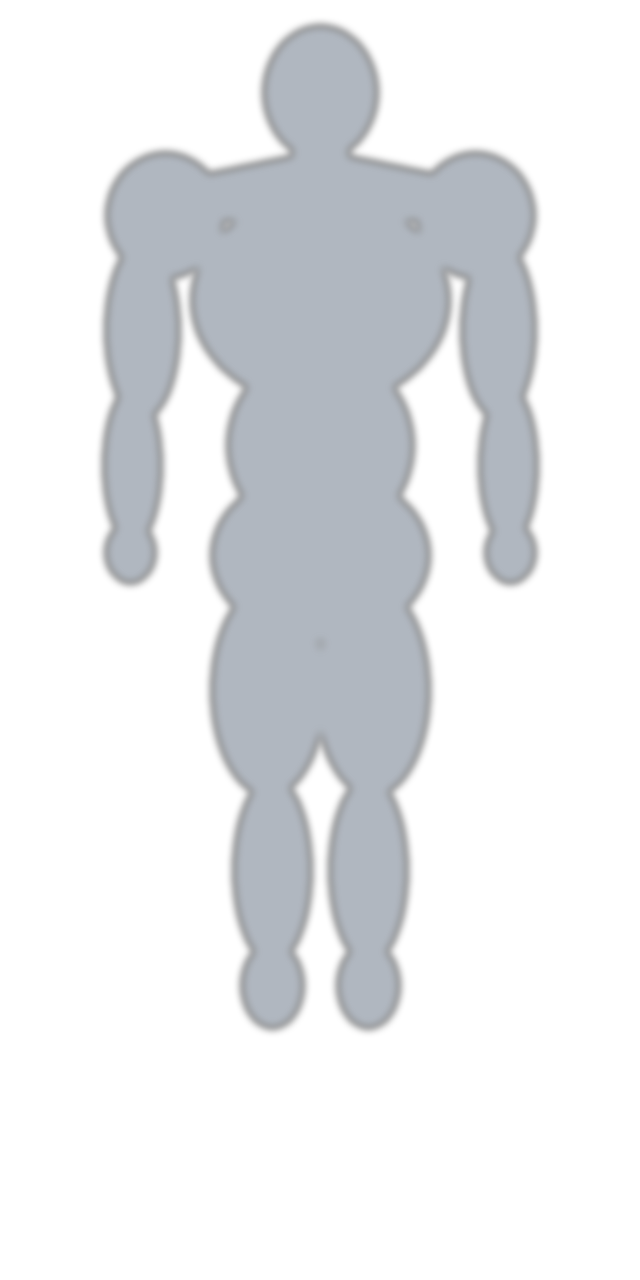
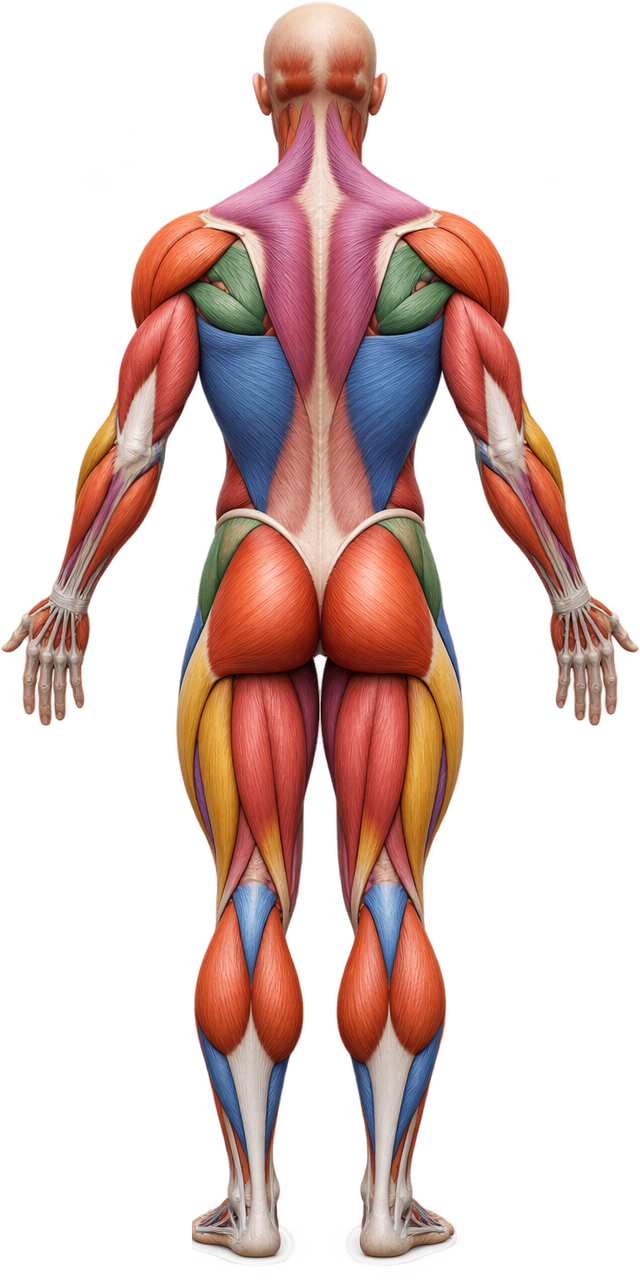
feat: AI 真人肌肉底图替换占位轮廓，色斑坐标按新底图校准

diff --git a/tools/overlay_spots.py b/tools/overlay_spots.py
@@ -1,0 +1,34 @@
+# -*- coding: utf-8 -*-
+"""把 BodyPathData 的色斑坐标画到底图上，人工检查对齐情况。"""
+import os
+from PIL import Image, ImageDraw
+
+MEDIA = r"C:\Users\infinty\DevEcoStudioProjects\SportHealthAgent\entry\src\main\resources\base\media"
+OUT = r"C:\Users\infinty\DevEcoStudioProjects\SportHealthAgent\tools"
+
+FRONT = {
+    "肩左": (25, 19, 12), "肩右": (75, 19, 12), "胸": (50, 21, 15),
+    "腹": (50, 33, 12), "臀": (50, 46, 13), "手臂左": (17, 37, 10),
+    "手臂右": (83, 37, 10), "腿左": (40, 60, 13), "腿右": (60, 60, 13),
+}
+BACK = {
+    "肩左": (26, 18, 12), "肩右": (74, 18, 12), "背": (50, 31, 17),
+    "臀": (50, 47, 14), "手臂左": (17, 36, 10), "手臂右": (83, 36, 10),
+    "腿左": (42, 60, 13), "腿右": (58, 60, 13),
+}
+
+def overlay(img_name, spots, out_name):
+    im = Image.open(os.path.join(MEDIA, img_name)).convert("RGBA")
+    w, h = im.size
+    bg = Image.new("RGBA", im.size, (24, 24, 28, 255))
+    bg.alpha_composite(im)
+    d = ImageDraw.Draw(bg)
+    for name, (x, y, r) in spots.items():
+        cx, cy, rr = x / 100 * w, y / 100 * h, r / 100 * w * 1.15
+        d.ellipse([cx - rr, cy - rr, cx + rr, cy + rr], outline=(255, 60, 60, 255), width=3)
+        d.text((cx - 12, cy - 6), name, fill=(255, 255, 0, 255))
+    bg.convert("RGB").save(os.path.join(OUT, out_name))
+    print("saved", out_name)
+
+overlay("body_front.png", FRONT, "overlay_front.png")
+overlay("body_back.png", BACK, "overlay_back.png")

diff --git a/tools/fix_body_images.py b/tools/fix_body_images.py
@@ -1,0 +1,26 @@
+# -*- coding: utf-8 -*-
+"""检查 AI 底图 alpha 通道、清除左下角 AI生成 水印。"""
+import os
+from PIL import Image
+
+MEDIA = r"C:\Users\infinty\DevEcoStudioProjects\SportHealthAgent\entry\src\main\resources\base\media"
+
+for name in ("body_front.png", "body_back.png"):
+    p = os.path.join(MEDIA, name)
+    im = Image.open(p).convert("RGBA")
+    w, h = im.size
+    alpha = im.getchannel("A")
+    lo, hi = alpha.getextrema()
+    # 统计四角透明度，判断背景是否透明
+    corners = [alpha.getpixel((2, 2)), alpha.getpixel((w - 3, 2)),
+               alpha.getpixel((2, h - 3)), alpha.getpixel((w - 3, h - 3))]
+    print(name, "size", im.size, "alpha range", (lo, hi), "corners", corners)
+    # 清除左下角水印区域（约 x 0-25%, y 94%-100%）并整体裁掉底部 2% 保险
+    px = im.load()
+    for y in range(int(h * 0.93), h):
+        for x in range(0, int(w * 0.30)):
+            r, g, b, a = px[x, y]
+            # 只擦掉近白色描边/文字像素，避免误伤人体（脚踝在右侧，此区域基本是背景）
+            px[x, y] = (r, g, b, 0)
+    im.save(p)
+    print(name, "watermark area cleared")
